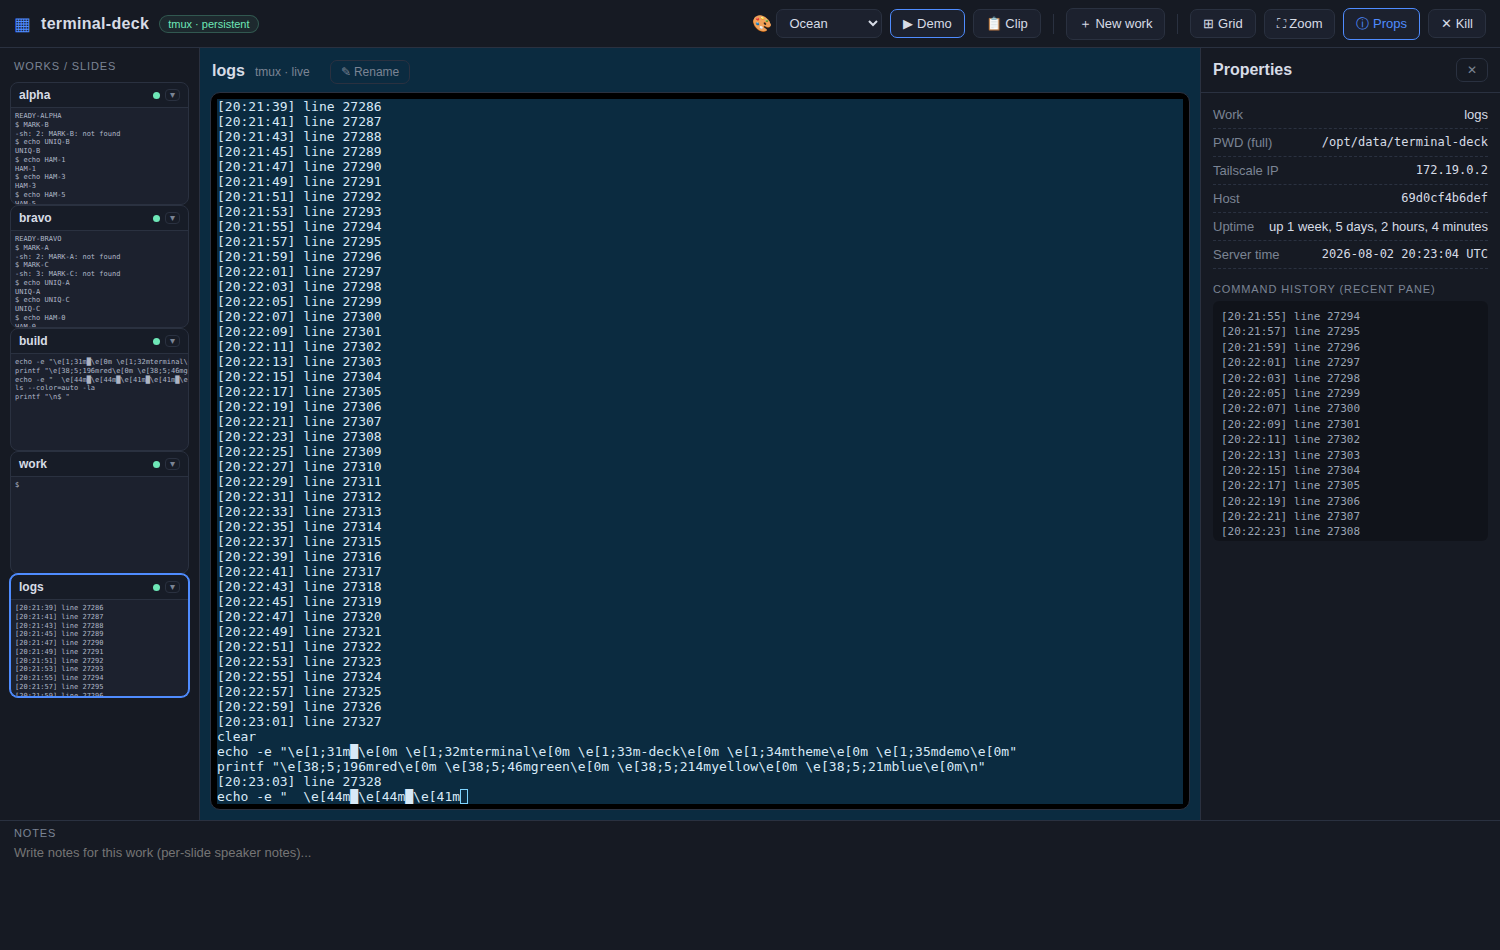
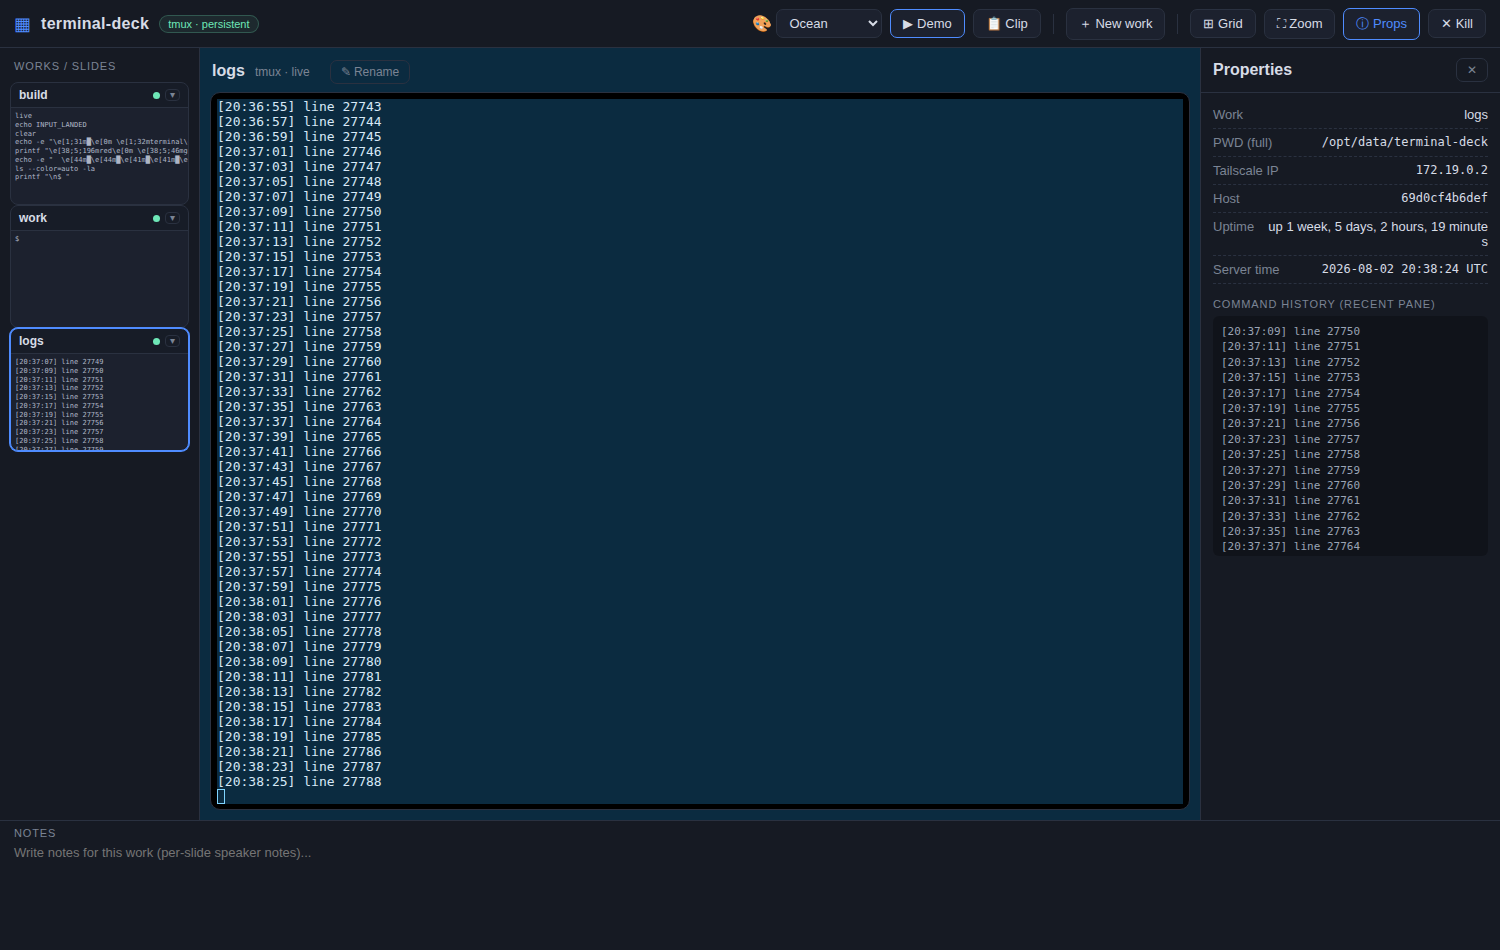
fix(ui): thumbnails show LATEST lines (bottom), not top; include scrollback
- server snapshot() adds '-S -' so capture-pane includes scrollback history
  (the whole terminal, not just the visible screen)
- frontend snap handler keeps the TAIL of the snapshot aligned to line
  boundaries, so the card reads like a real terminal viewport (prompt at the
  bottom) instead of blank top lines

Verified: 60-line session renders LINE-15..prompt, full history in snapshot.

diff --git a/public/app.js b/public/app.js
@@ -233,7 +233,25 @@ function connect() {
       if (state.active && msg.token === state.tokens[state.active]) setActive(null);
     } else if (msg.t === 'snap') {
       const card = cardsEl.get(msg.session);
-      if (card) card.preview.textContent = sanitizeSnap(msg.data).slice(0, cardPreviewChars(card));
+      if (card) {
+        // Show the LATEST lines (bottom of the terminal), not the top: keep
+        // the tail so the thumbnail reads like a real terminal viewport.
+        // Align to line boundaries so the top line is never a partial slice.
+        const clean = sanitizeSnap(msg.data);
+        const cap = cardPreviewChars(card);
+        if (clean.length <= cap) {
+          card.preview.textContent = clean;
+        } else {
+          const lines = clean.split('\n');
+          let out = ''; let used = 0;
+          for (let i = lines.length - 1; i >= 0; i--) {
+            const l = lines[i] + '\n';
+            if (used + l.length > cap && out) break;
+            out = l + out; used += l.length;
+          }
+          card.preview.textContent = out;
+        }
+      }
     }
   };
 }

diff --git a/server.js b/server.js
@@ -101,7 +101,9 @@ async function listSessions() {
 async function snapshot(session, cols = 80, rows = 24) {
   // raw snapshot with no status line; strip tmux screen-control preamble that
   // capture-pane -p can prepend in control-ish contexts (rare)
-  const out = await tmux(['capture-pane', '-t', session, '-p', '-J', '-e']).catch(() => '');
+  // -S - : include scrollback history so the thumbnail shows the WHOLE
+  // terminal (the visible screen alone loses everything above it)
+  const out = await tmux(['capture-pane', '-t', session, '-p', '-J', '-e', '-S', '-']).catch(() => '');
   // tn: -e keeps escape sequences so ANSI color/format passes through to xterm
   return out;
 }
